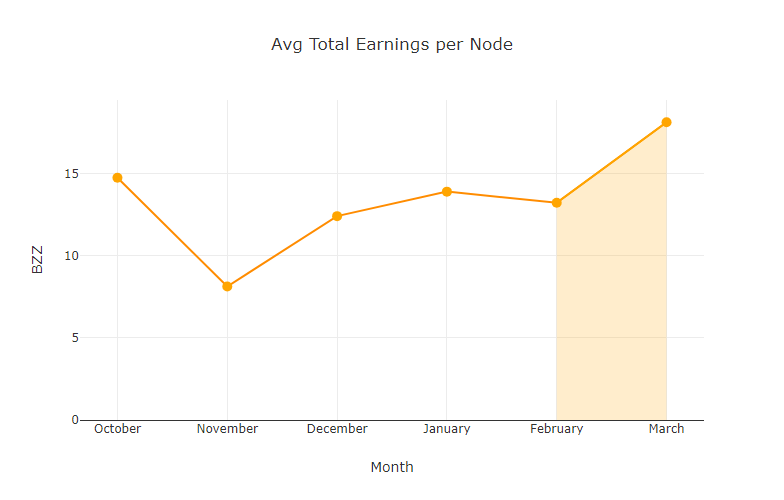
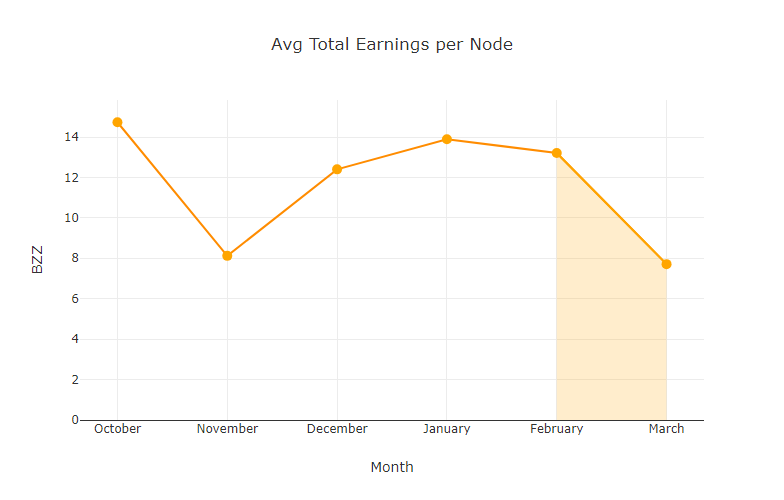
corrections

diff --git a/content/foundation/posts/swarm-state-of-the-network-march-2024.md b/content/foundation/posts/swarm-state-of-the-network-march-2024.md
@@ -5,7 +5,7 @@ banner = "/uploads/bc.png"
 images = [ "/uploads/bc.png" ]
 categories = [ "Development updates" ]
 date = 2024-04-03T00:00:00.000Z
-description = "In the March edition of our 'State of the Network' series, we provide an in-depth look at the Swarm network's metrics and the notable changes they have undergone. This month's report captures a dynamic period for the network, characterized by significant variations in rewards, participation, and geographical distribution of nodes. Through this analysis, stakeholders can gain insights into the evolving landscape of the Swarm network, marked by shifts in monthly rewards, win values, average earnings per node, and the global distribution of active nodes." 
+description = "In the March edition of our "State of the Network" series, we provide an in-depth look at the Swarm network's metrics and the notable changes they have undergone. This month's report captures a dynamic period for the network, characterized by significant variations in rewards, participation, and geographical distribution of nodes. Through this analysis, stakeholders can gain insights into the evolving landscape of the Swarm network, marked by shifts in monthly rewards, win values, average earnings per node, and the global distribution of active nodes." 
 references_and_footnotes = [ ]
 title = "State of the Network: March"
 _template = "post"
@@ -13,7 +13,7 @@ slug="state-of-the-network-march"
 +++
 
 
-In the March edition of our "State of the Network" series, we provide an in-depth look at the Swarm network's metrics and the notable changes they have undergone. This month's report captures a dynamic period for the network, characterized by significant variations in rewards, participation, and geographical distribution of nodes. Through this analysis, stakeholders can gain insights into the evolving landscape of the Swarm network, marked by shifts in monthly rewards, win values, average earnings per node, and the global distribution of active nodes.
+In the March edition of our "State of the Network" series, we provide an in-depth look at the Swarm network's metrics and the notable changes they have undergone. This month's report captures a dynamic period for the network, characterized by variations in rewards and geographical distribution of nodes. Through this analysis, stakeholders can gain insights into the evolving landscape of the Swarm network.
 
 ## Network Total Monthly Rewards
 
@@ -30,9 +30,10 @@ This metric shows the total rewards paid out across the entire network for each 
 
 ![chart-Total-Network-Monthly-Rewards](/uploads/chart-Total-Network-Monthly-Rewards-March.png)
 
-A significant decrease in total network rewards was observed in March, with rewards dropping to 104,657 xBZZ from February's 152,974 xBZZ. This marks the lowest payout in the reported period.
+In March, total network rewards saw a notable decrease to 104,657 xBZZ, marking the lowest payout in the recent months, underscoring a change in network reward allocation.
 
 ## Monthly Median Win Values
+
 This metric is the median win amount for each win event.
 
 | Month     | Median Win Values (xBZZ)  |
@@ -44,10 +45,9 @@ This metric is the median win amount for each win event.
 | February  | 49.15                     |
 | March     | 27.43                     |
 
-
 ![chart-Monthly-Median-Win-Values](/uploads/chart-Monthly-Median-Win-Values-March.png)
 
-The median win values saw a substantial decline to 27.43 xBZZ in March from February's 49.15 xBZZ, indicating a decrease in the median amount of rewards won per event.
+The median win values experienced a marked decline to 27.43 xBZZ, reflecting a decrease in the typical reward amount won by nodes in win events.
 
 ## Monthly Average Win Values
 This metric is the average win amount for each win event.
@@ -61,13 +61,13 @@ This metric is the average win amount for each win event.
 | February  | 54.42                      |
 | March     | 34.96                      |
 
-
 ![chart-Monthly-Average-Win-Values](/uploads/chart-Monthly-Average-Win-Values-March.png)
 
-Similarly, the average win values decreased to 34.96 xBZZ in March, down from 54.42 xBZZ in February. This shows a reduction in the average reward value won by nodes.
+Average win values also saw a reduction, settling at 34.96 xBZZ, indicating a lower average reward amount collected per win across the network.
 
 ## Active Staking Node Monthly Average Earnings
-This metric shows the average monthly earnings for an active staking node.
+
+This metric shows the average monthly earnings for an active staking node (defined as a node which has submitted a commit transaction at least once in the month).
 
 | Month     | Avg Total Earnings per Node (xBZZ) |
 |-----------|------------------------------------|
@@ -76,15 +76,15 @@ This metric shows the average monthly earnings for an active staking node.
 | December  | 12.40                              |
 | January   | 13.89                              |
 | February  | 13.21                              |
-| March     | 18.11                              |
+| March     | 7.711                              |
 
 ![chart-Avg-Total-Earnings-per-Node](/uploads/chart-Avg-Total-Earnings-per-Node-March.png)
 
-Contrary to the trend in win values, the average monthly earnings for an active staking node increased to 18.11 xBZZ in March from 13.21 xBZZ in February, indicating higher earnings for individual nodes on average.
+In line with the trend for other metrics, the average monthly earnings for an active staking node decreased significantly to 7.711 xBZZ in March, reflecting a downturn in earnings across active nodes.
 
 ## Total Active Staking Nodes by Month
 
-This metric shows the total active staking nodes by month. 
+This metric shows the total active staking nodes by month (again, defined as a node which has submitted a commit transaction at least once in the month). 
 
 | Month     | Total Active Staking Nodes |
 |-----------|----------------------------|
@@ -93,11 +93,11 @@ This metric shows the total active staking nodes by month.
 | December  | 12,891                     |
 | January   | 11,350                     |
 | February  | 11,576                     |
-| March     | 5,778                      |
+| March     | 13,571                      |
 
 ![chart-Total-Active-Staking-Nodes](/uploads/chart-Total-Active-Staking-Nodes-March.png)
 
-March saw a dramatic decrease in the total number of active staking nodes, halving to 5,778 from February's 11,576. This significant reduction highlights a decrease in active network participation.
+March recorded an increase in the total number of active staking nodes to 13,571, showing a rebound in network participation compared to the previous month.
 
 ## Total Winning Nodes by Month
 
@@ -114,7 +114,7 @@ This metric shows the total number of unique active staking nodes which have won
 
 ![chart-Number-of-Winning-Staking-Nodes-by-Month](/uploads/chart-Number-of-Winning-Staking-Nodes-by-Month-March.png)
 
-The total number of unique winning nodes in March decreased to 2,413 from February's 2,814, reflecting a drop in the diversity of winning participants.
+The total number of unique winning nodes slightly decreased to 2,413, indicating a small shift in the composition of winning participants within the network.
 
 ## Total Active Staking Nodes by Country
 
@@ -128,12 +128,12 @@ This metric shows the total number of active staking nodes across the top four c
 | December      | 8,333  | 2,001   | 1,919   | 265     | 312           | 61    |
 | January       | 6,696  | 1,937   | 1,769   | 701     | 181           | 66    |
 | February      | 6,787  | 1,958   | 1,952   | 688     | 116           | 75    |
-| March         | 10,259 | 2,101   | 2,448   | 25      | 318           | 238   |
+| March         | 7,785  | 1,953   | 2,232   | 1,408   | 91            | 102   |
 
 ![Total Staking Nodes by Country.png](/uploads/Total-Active-Staking-Nodes-by-Country-March.png)
 
-The geographic distribution of active staking nodes in March showed notable changes, with increases in nodes from China, Finland, and the "Other" category, while the "Unknown" category saw a substantial decrease. This suggests a shift in the geographical presence of active nodes.
+The geographic distribution of active staking nodes in March showed notable changes, with increases in nodes from China, Finland, and "Other" countries, while the "Unknown" category saw a substantial decrease. 
 
 ## Conclusion
 
-The trends observed in March underscore a period of adjustment and change within the Swarm network. Despite reductions in total rewards and active staking nodes, there was an increase in average earnings for active nodes, hinting at a more concentrated reward distribution. The geographical shifts indicate a broadening global engagement, especially with notable increases in active nodes from China and Finland. These changes, reflective of the network's dynamic nature, highlight the ongoing evolution of Swarm as it continues to adapt and grow within the decentralized ecosystem.
+The March report reveals a complex picture of adjustment within the Swarm network, highlighted by a decrease in total rewards but an increase in active staking nodes. This suggests a period of rebalancing and diversification in network participation and reward distribution. The geographical spread of nodes underscores the network's evolving global reach. As we continue to monitor these trends, the evolving dynamics of the Swarm network offer valuable insights into its resilience and adaptability in light of changing conditions.
